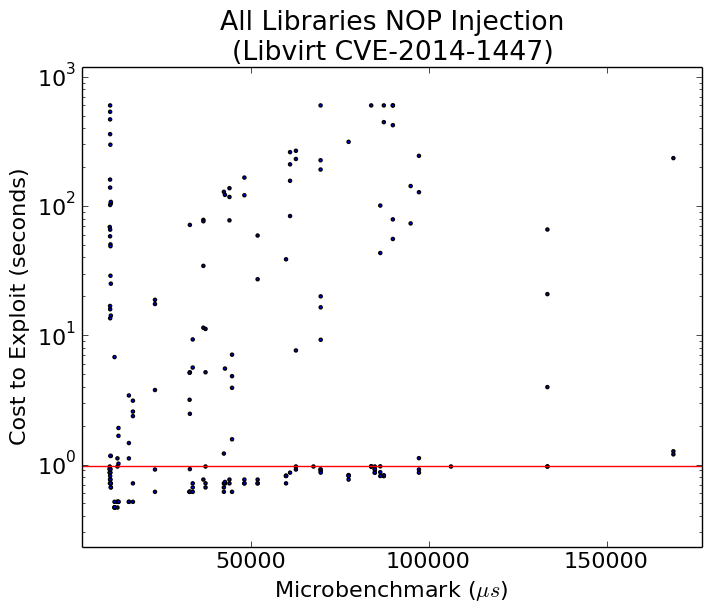
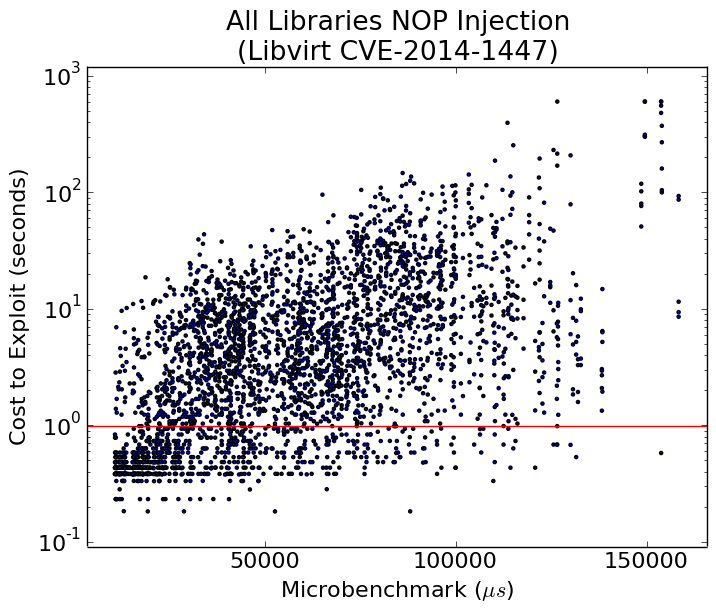
T1 applied to Libvirt results

diff --git a/results.tex b/results.tex
@@ -2,7 +2,7 @@ We evaluated \textbf{T1}-\textbf{T3} on Libsafe CVE-2005-1125, \textbf{T2} and \
 For each evaluation, exploit cost or exploit success rate was evaluated for each of many applications of the transformation under study.
 The exploit cost or success rate was then compared to either the microbenchmark overhead, or the number of NOPs injected, as appropriate for each experiment.
 Libsafe and ``nonatomic operations assumed to be atomic'' experiments were run on a dedicated dual core 3.4GHz Pentium D running Debian.
-Libvirt experiments were run on a 2.8GHz dual-socket hex-core Intel Xeon with 24 hyper-threading cores running Ubuntu.
+Libvirt experiments were run on a 2.8GHz dual-socket hex-core Intel Xeon with 24 hyper-threading cores running Debian.
 In all figures, the horizontal red line indicates the average measurement for the unmodified bug (without time randomization).
 The results vary somewhat widely with the bug analyzed and the automated diversity transformation used.
 A summary of the results in this section is given in Table \ref{tab_results}.
@@ -15,6 +15,7 @@ A summary of the results in this section is given in Table \ref{tab_results}.
 	Libsafe & \textbf{T1} & Yes & \ref{fig_libsafe-all}\&\ref{fig_libsafe-all-zoom} \\ \hline
 	Libsafe & \textbf{T2} & No & \ref{fig_libsafe-pre} \\ \hline
 	Libsafe & \textbf{T3} & Yes & \ref{fig_libsafe-post} \\ \hline
+	Libvirt & \textbf{T1} & No & \ref{fig_libvirt-all} \\ \hline
 	Libvirt & \textbf{T2} & No & \ref{fig_libvirt-pre} \\ \hline
 	Libvirt & \textbf{T3} & Yes & \ref{fig_libvirt-post} \\ \hline
 	Canonical Atomicity Violation & \textbf{T3} & No & \ref{fig_nonatomic-post} \\ \hline
@@ -70,11 +71,15 @@ Finally, for inserted NOP loops of lengths greater than 350,000, exploit rates d
 	\label{fig_libsafe-post}
 \end{figure}
 
+\textbf{T1} affected the exploit cost for the Libvirt bug.
+However, the increase in time required for exploitation is approximately proportional to the increase in microbenchmark measurements.
+The exploit cost increase may therefore be attributed to an overall slowing down of the Libvirt daemon (Figure \ref{fig_libvirt-all}).
 \begin{figure}
 	\centering
 	\includegraphics[width=.75\columnwidth]{figures/libvirt-all}
 	\caption{
 		Exploit cost (in time) as a function of the microbenchmark after applying \textbf{T1} to Libvirt with concurrency bug CVE-2014-1447.
+		The exploit cost increases as a result of applying this transformation, but the increase is approximately proportional to the overall performance loss (x-axis).
 	}
 	\label{fig_libvirt-all}
 \end{figure}
